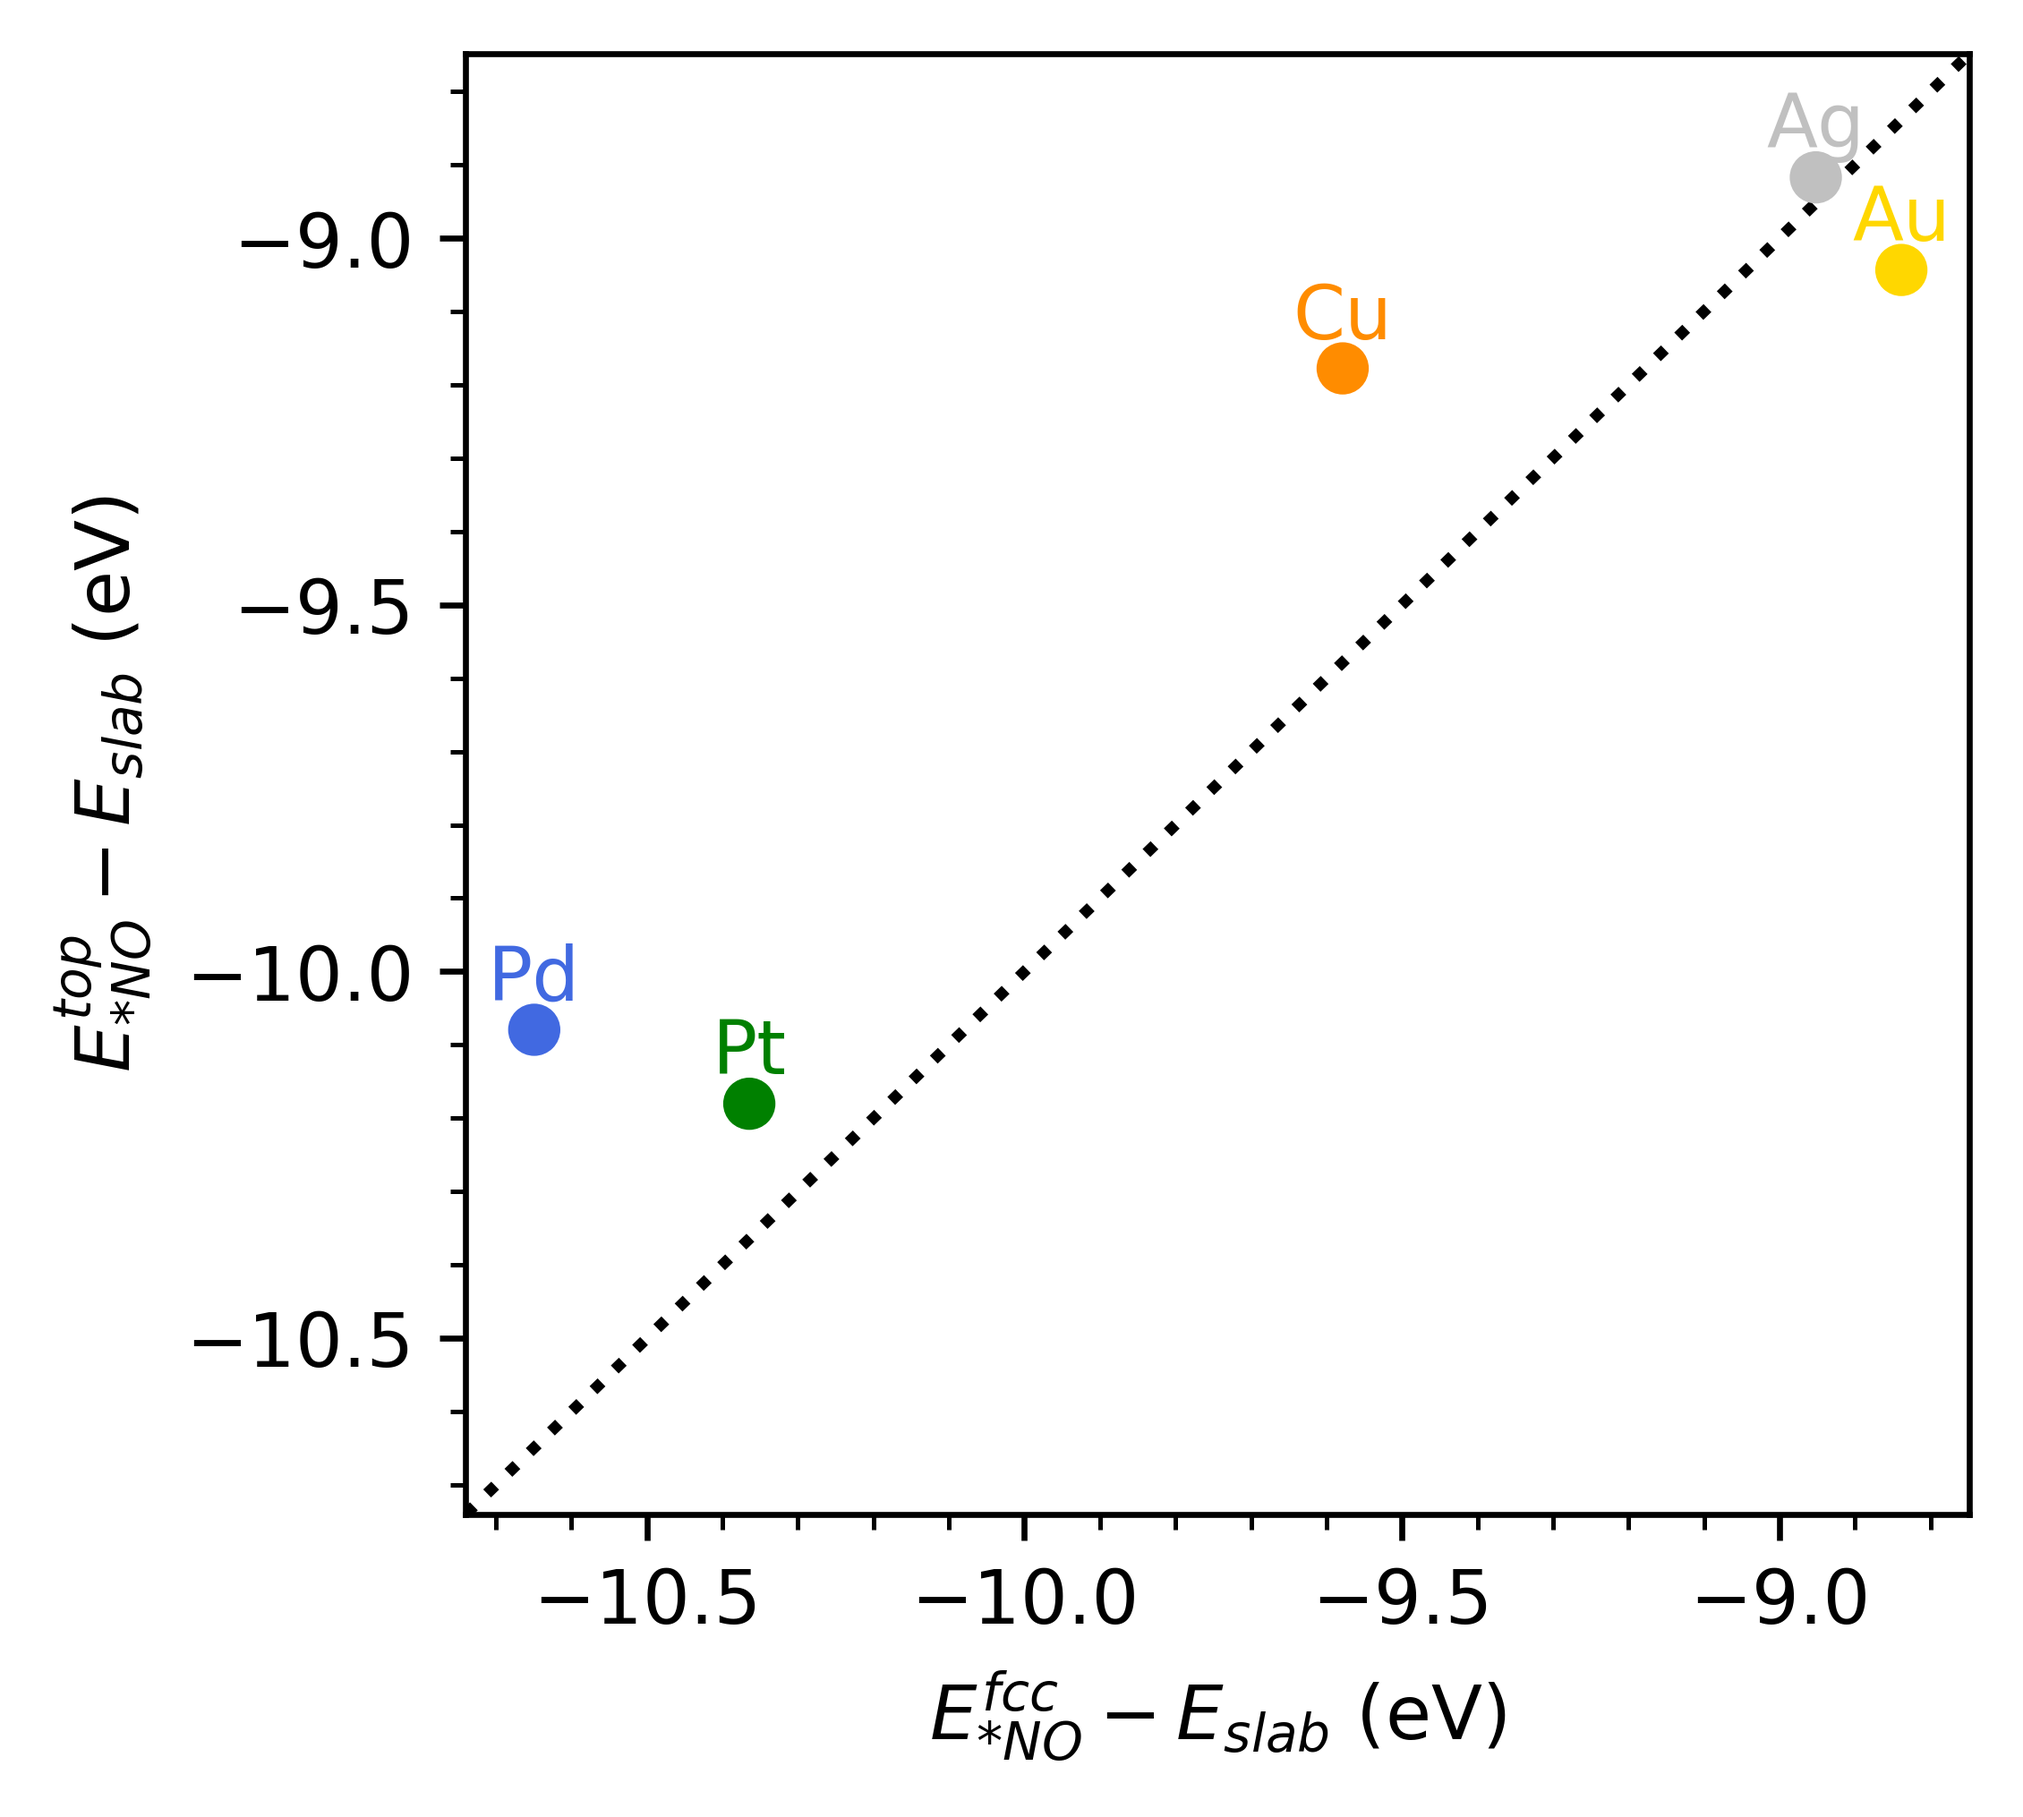
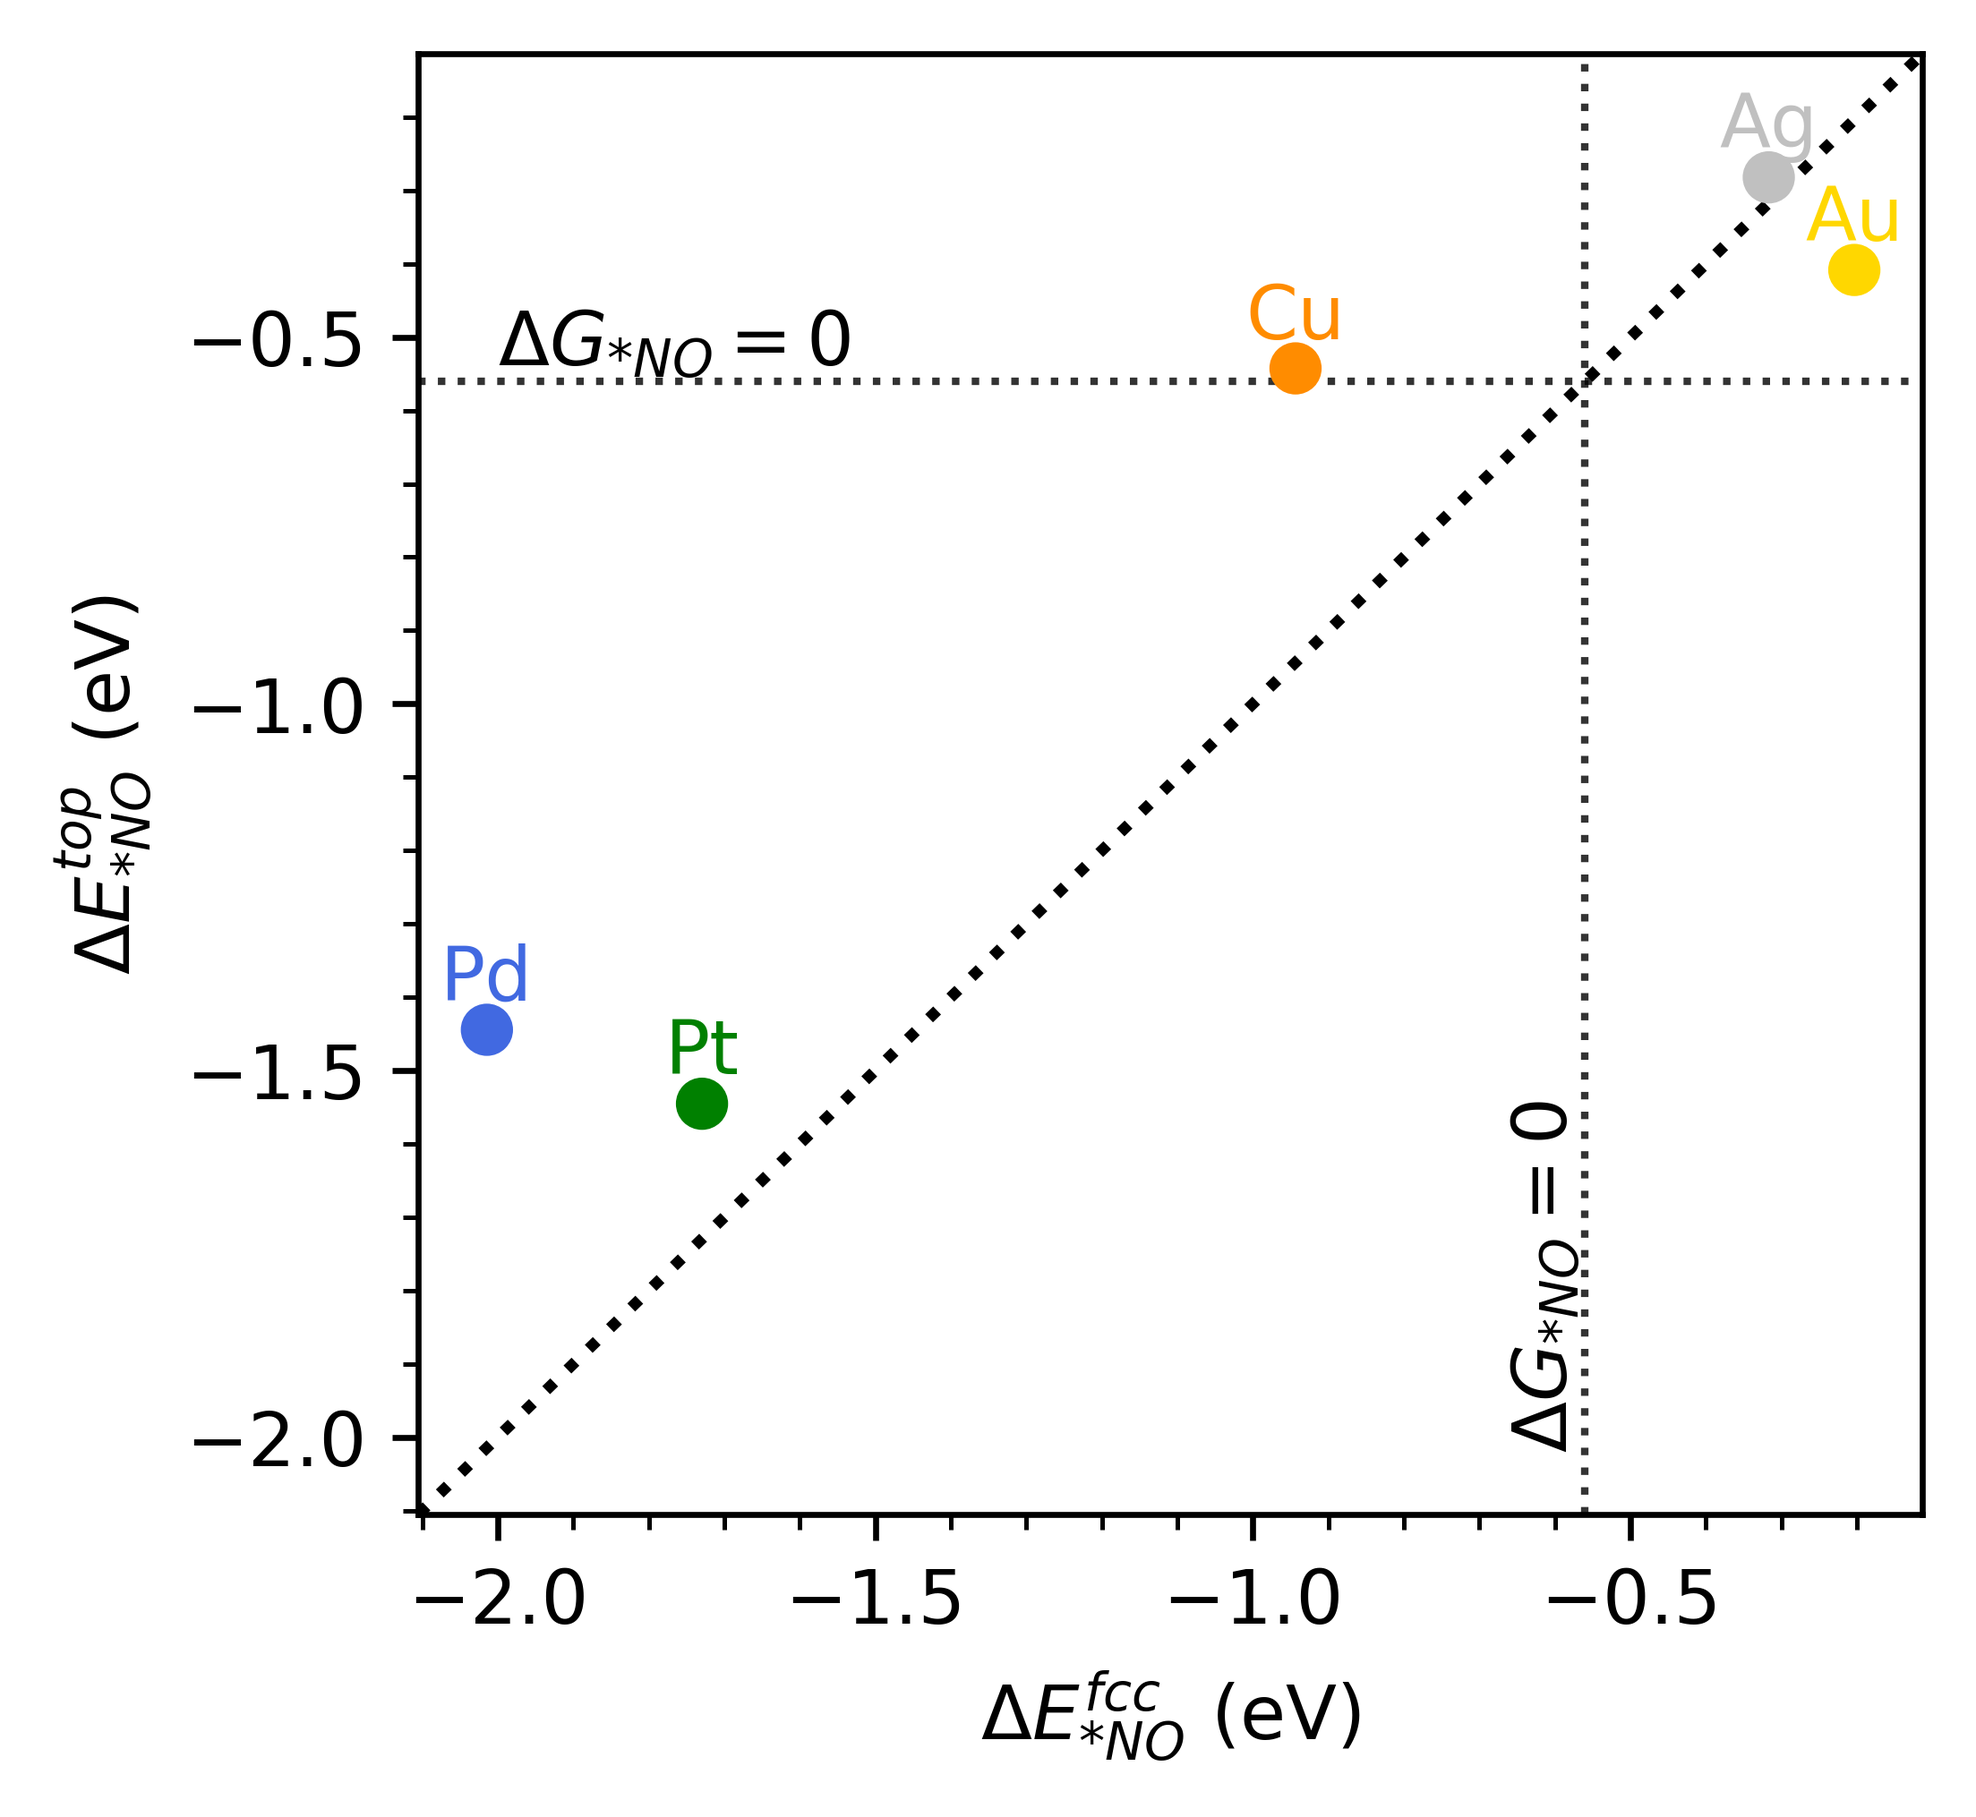
Updated NO fcc vs top and readme

diff --git a/databases/compare_NO_top_vs_fcc.py b/databases/compare_NO_top_vs_fcc.py
@@ -4,7 +4,7 @@ import matplotlib.pyplot as plt
 from matplotlib.ticker import MultipleLocator
 import sys
 sys.path.append('..')
-from scripts import metal_colors,metals
+from scripts import metal_colors,metals, G_corr
 
 
 metal_fcc = []
@@ -12,7 +12,10 @@ metal_top = []
 fcc_energies = []
 top_energies = []
 slab_energies = []
-with connect("single_element_NO_fcc_out.db") as fcc_db, connect("single_element_NO_out.db") as top_db,connect('single_element_slabs_out.db') as slab_db:
+with connect("single_element_NO_fcc_out.db") as fcc_db, connect("single_element_NO_out.db") as top_db,connect('single_element_slabs_out.db') as slab_db, connect('molecules_out.db') as gas_db:
+
+    E_NO = gas_db.get(molecule='NO').energy + 0.29
+
     # Iterate through each row of each database
     for (row_fcc,row_top,row_slab) in zip(fcc_db.select(),top_db.select(),slab_db.select()):
         metal_fcc.append(row_fcc.metal)
@@ -27,8 +30,8 @@ slab_energies = np.array(slab_energies)
 sort_fcc = np.argsort(metal_fcc)
 sort_top = np.argsort(metal_top)
 
-fcc_energies=np.array(fcc_energies)[sort_fcc] - slab_energies
-top_energies=np.array(top_energies)[sort_top] - slab_energies
+fcc_energies=np.array(fcc_energies)[sort_fcc] - slab_energies - E_NO
+top_energies=np.array(top_energies)[sort_top] - slab_energies - E_NO
 
 
 # Get metal colors
@@ -36,14 +39,20 @@ single_metal_colors = [metal_colors[metal] for metal in metals]
 
 # Make plot
 fig,ax = plt.subplots(figsize=(4,4))
-plt.scatter(fcc_energies,top_energies,color=single_metal_colors,zorder=1)
+ax.scatter(fcc_energies,top_energies,color=single_metal_colors,zorder=1)
 
 xlim = ax.get_xlim()
 ylim = ax.get_ylim()
-plt.plot(xlim,xlim,c='k',ls=':',zorder=0)
+ax.plot(xlim,xlim,c='k',ls=':',zorder=0)
+ax.axvline(-G_corr['NO'],ls=':',lw=1,alpha=0.8,c='k',zorder=0)
+ax.axhline(-G_corr['NO'],ls=':',lw=1,alpha=0.8,c='k',zorder=0,label='$\Delta G_{*NO}=0$')
+# ax.legend(loc=2)
+ax.text(-2,-G_corr['NO'],'$\Delta G_{*NO}=0$',va='bottom')
+ax.text(-G_corr['NO']-0.1,-2,'$\Delta G_{*NO}=0$',rotation=90)
 
-plt.xlabel('$E_{*NO}^{fcc} - E_{slab}$ (eV)')
-plt.ylabel('$E_{*NO}^{top} - E_{slab}$ (eV)')
+
+plt.xlabel('$\Delta E_{*NO}^{fcc}$ (eV)')
+plt.ylabel('$\Delta E_{*NO}^{top}$ (eV)')
 
 
 for i,metal in enumerate(metals):

diff --git a/README.md b/README.md
@@ -1,1 +1,3 @@
-# CN_formation_on_HEA
+# Catalysis of C-N Coupling on High-Entropy Alloys
+
+Scripts and data for reproduction.
